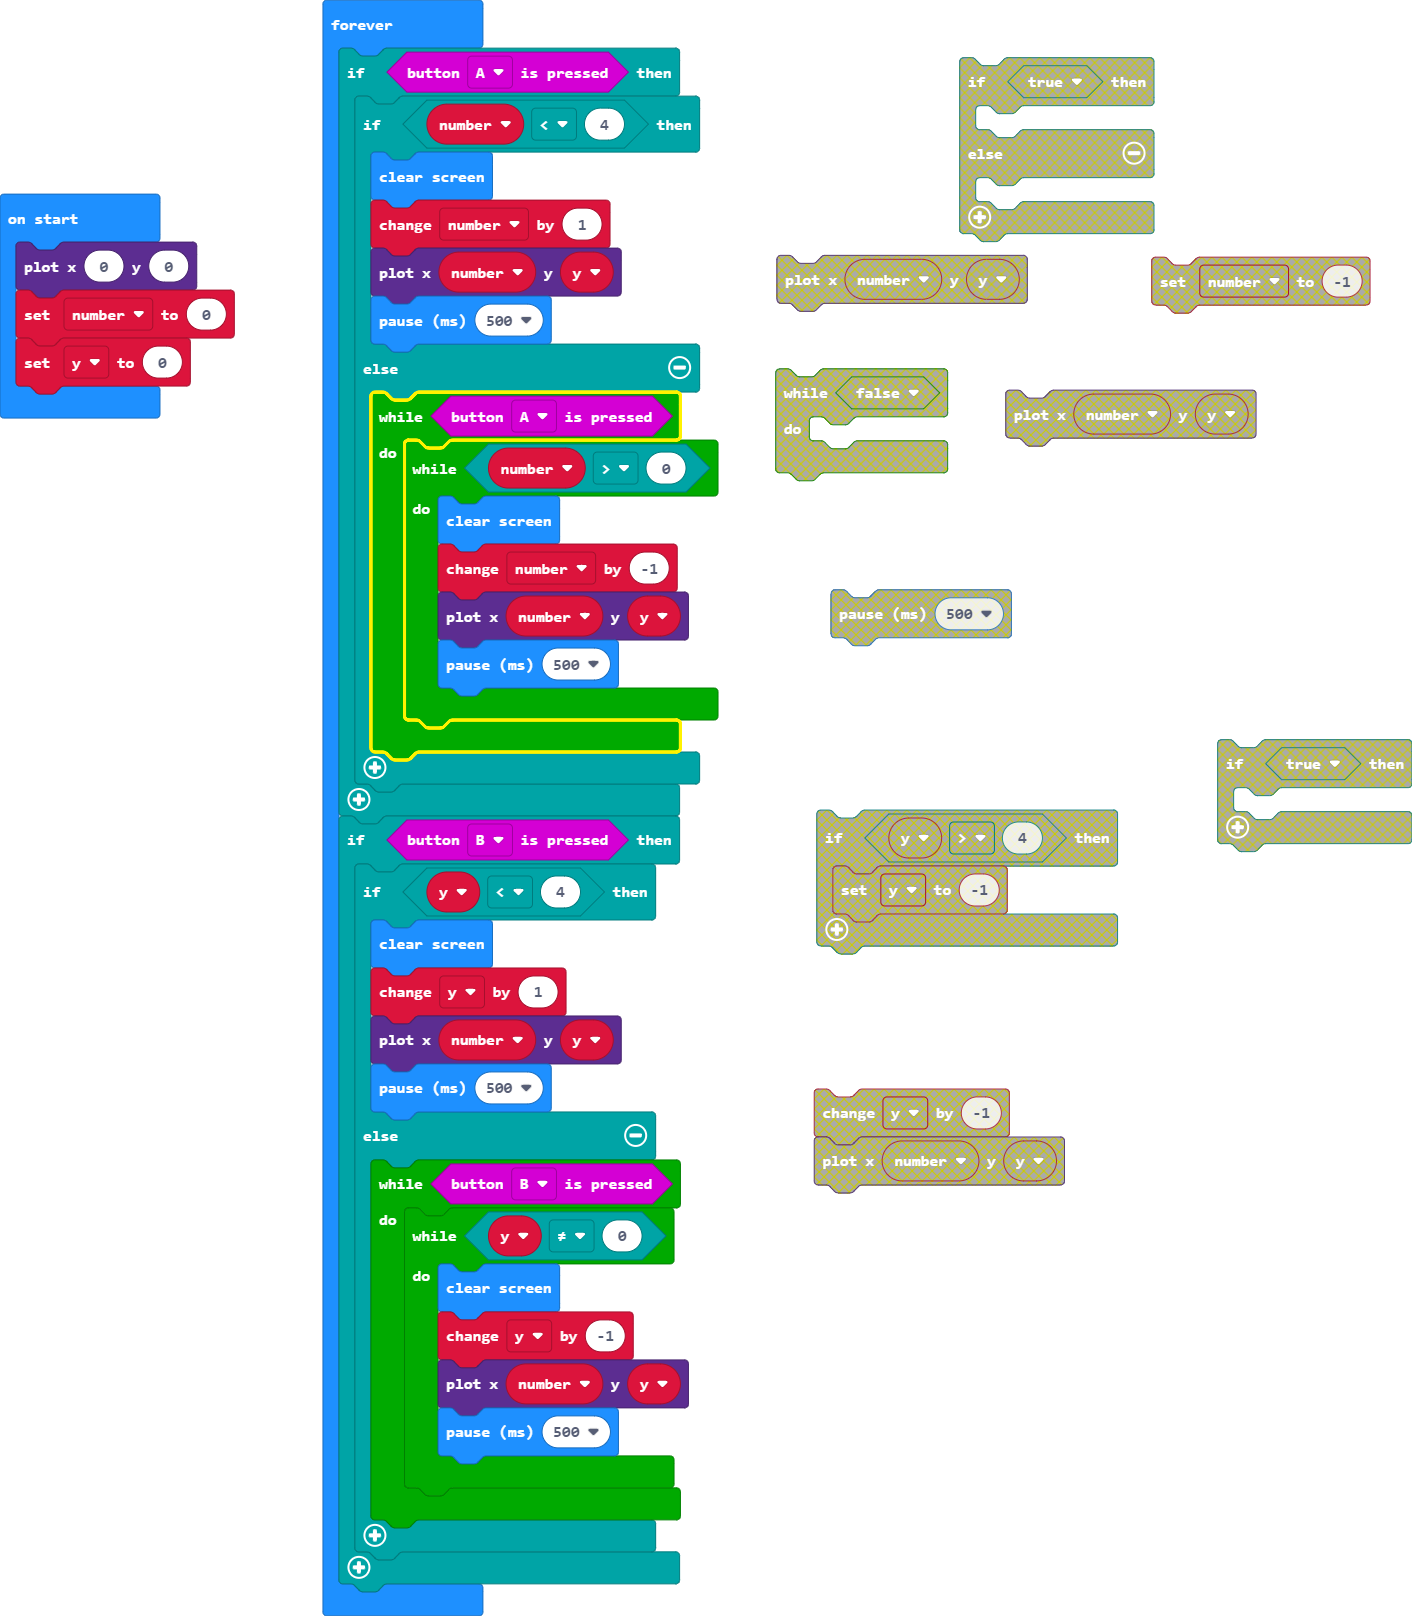
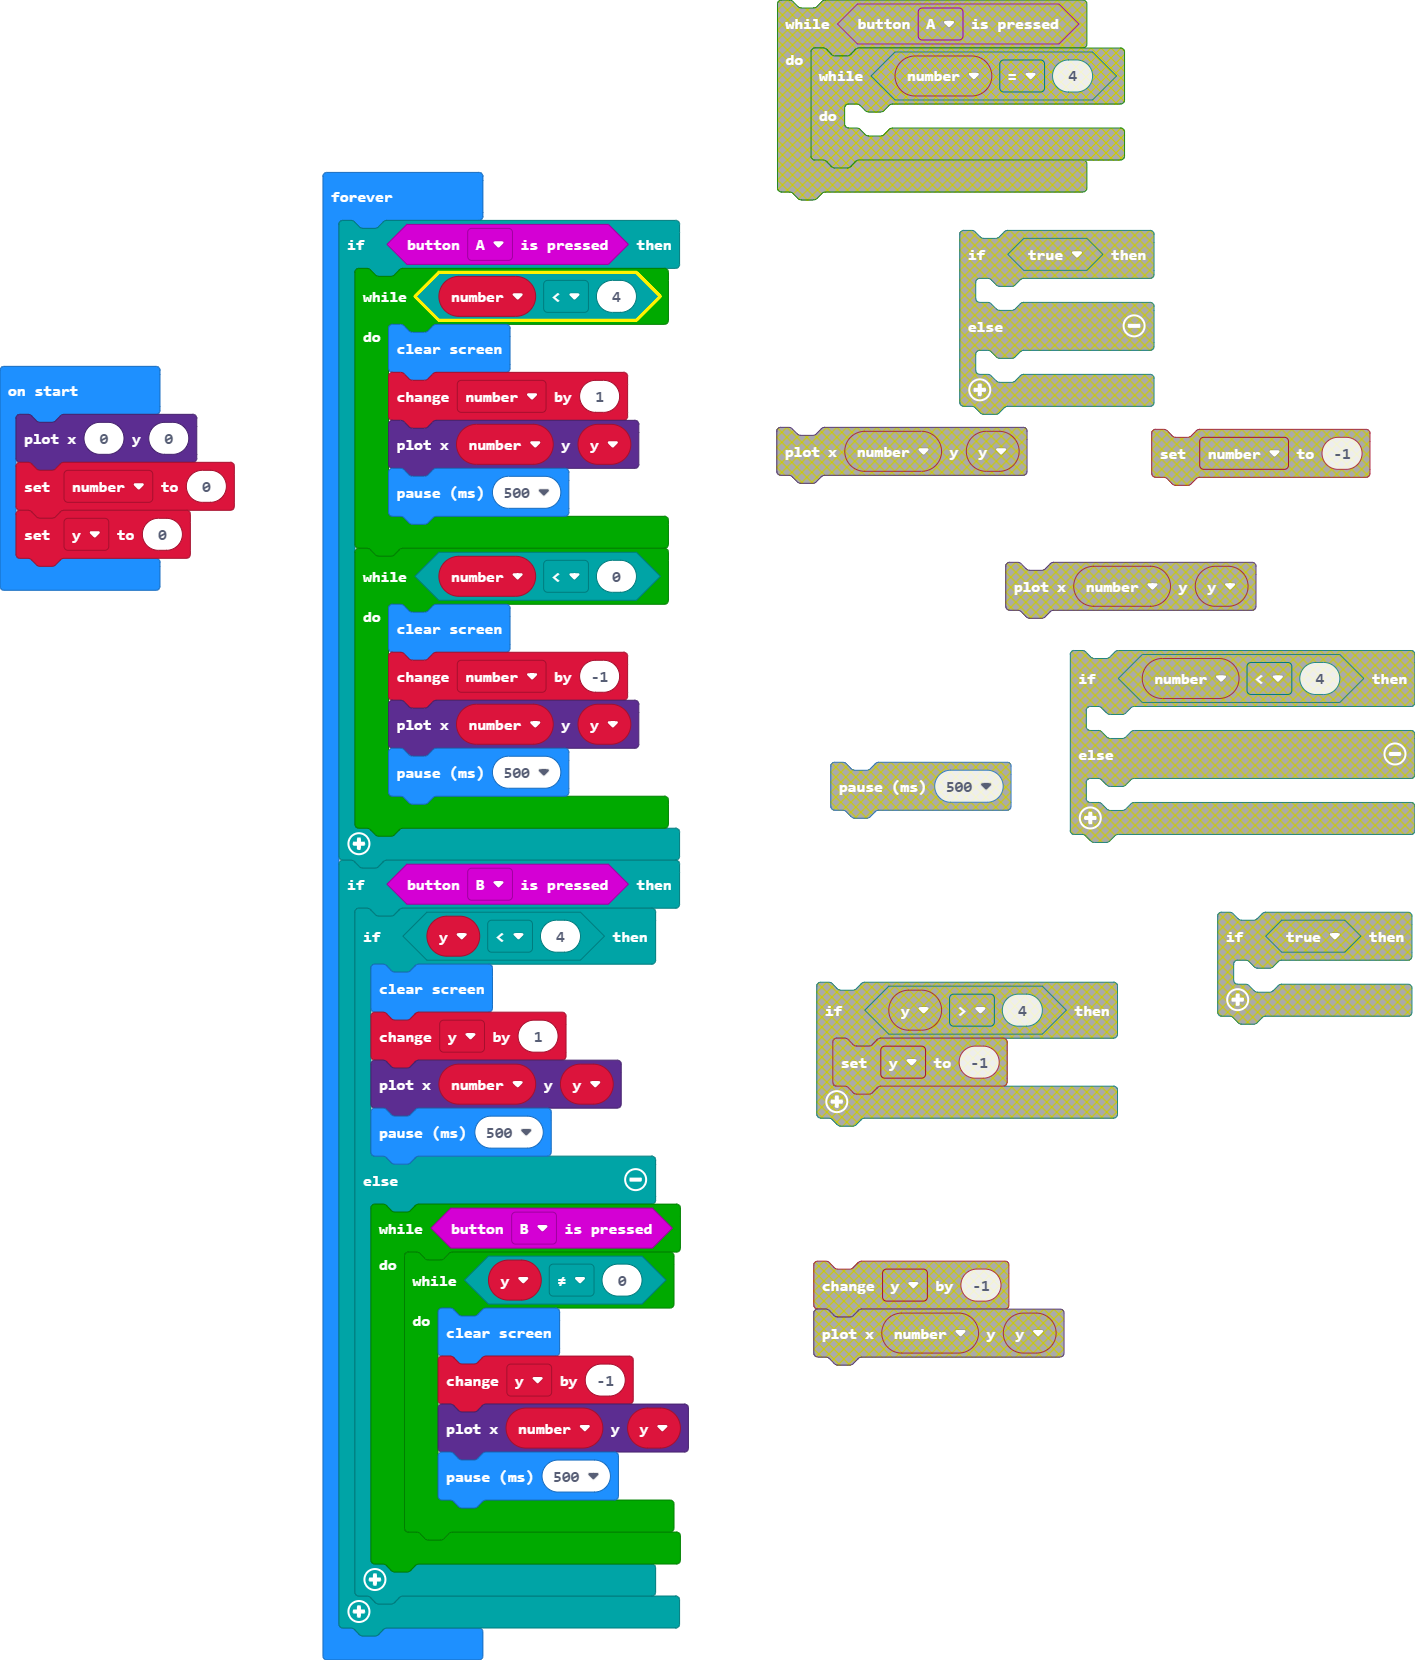
Update main.blocks, main.ts

diff --git a/main.ts b/main.ts
@@ -3,20 +3,17 @@ let number = 0
 let y = 0
 basic.forever(function () {
     if (input.buttonIsPressed(Button.A)) {
-        if (number < 4) {
+        while (number < 4) {
             basic.clearScreen()
             number += 1
             led.plot(number, y)
             basic.pause(500)
-        } else {
-            while (input.buttonIsPressed(Button.A)) {
-                while (number > 0) {
-                    basic.clearScreen()
-                    number += -1
-                    led.plot(number, y)
-                    basic.pause(500)
-                }
-            }
+        }
+        while (number < 0) {
+            basic.clearScreen()
+            number += -1
+            led.plot(number, y)
+            basic.pause(500)
         }
     }
     if (input.buttonIsPressed(Button.B)) {
